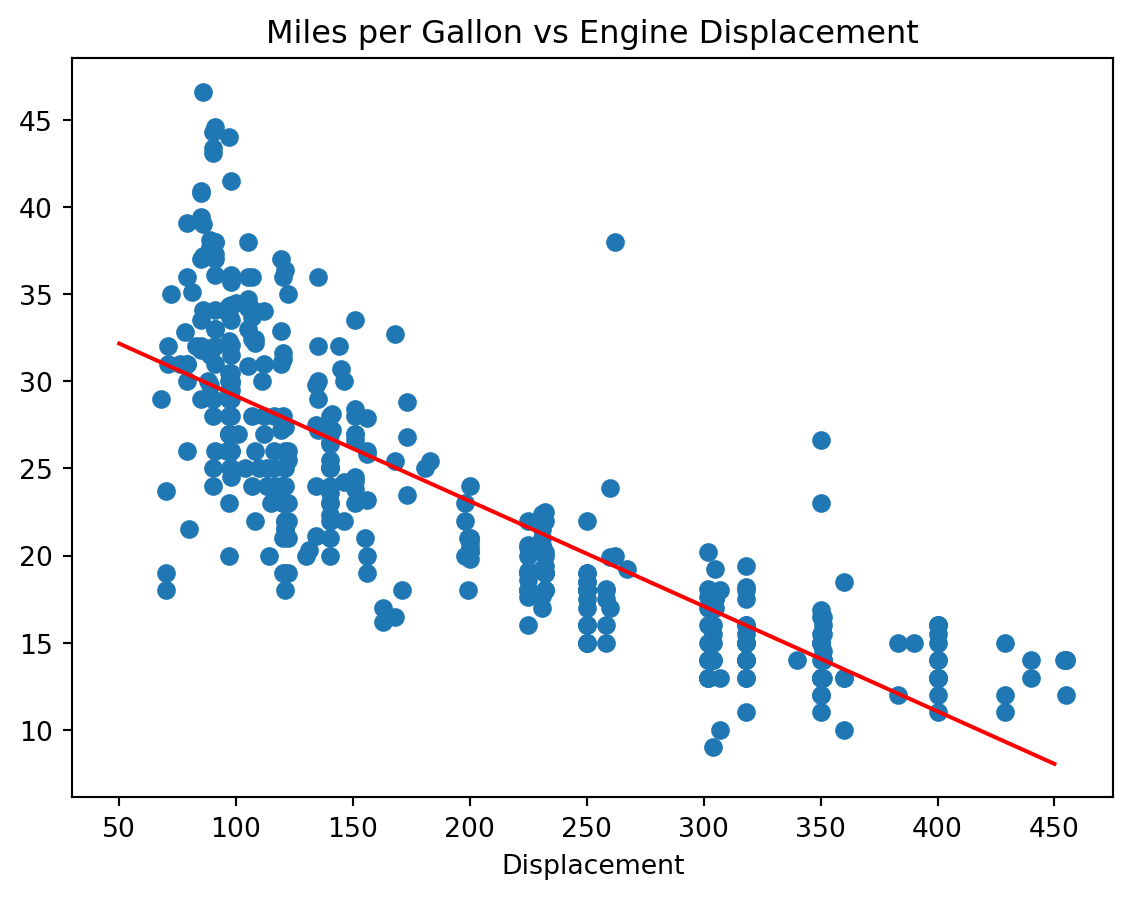
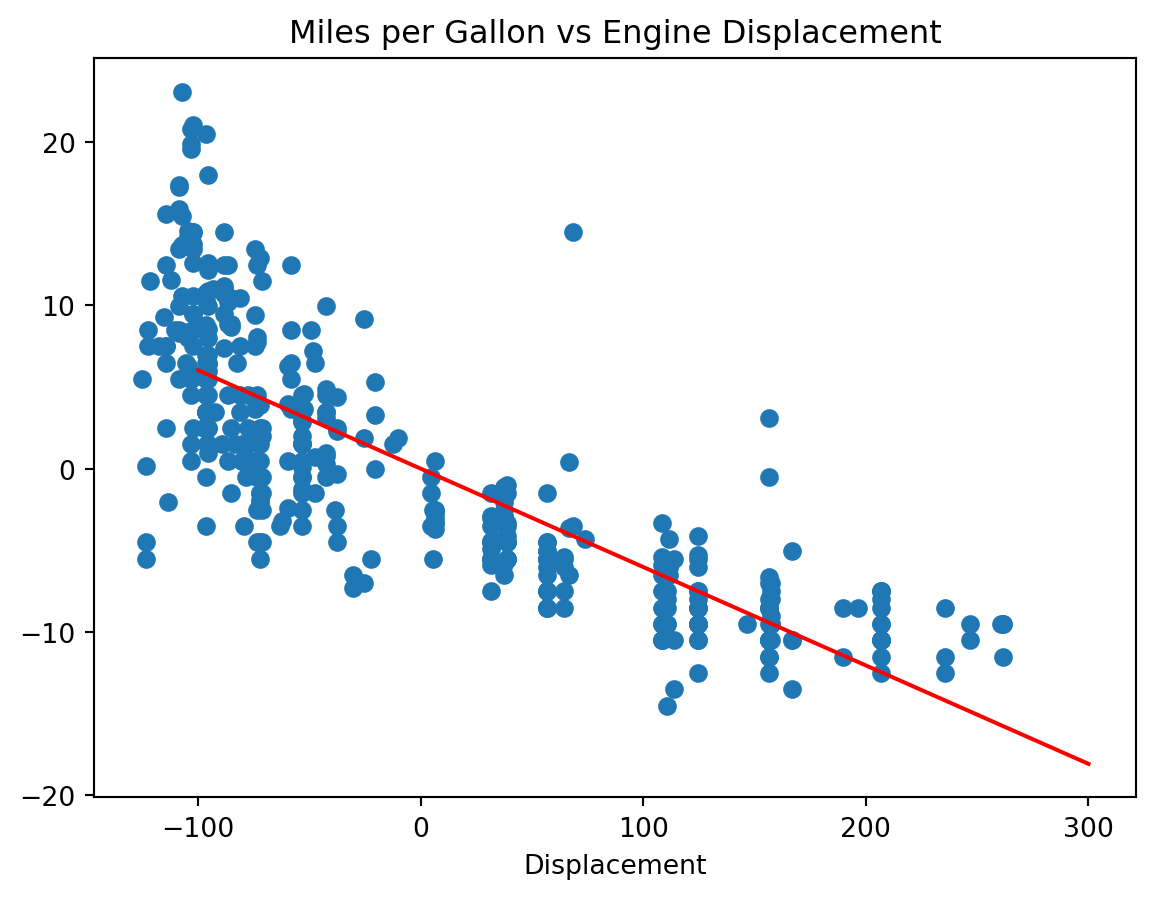
updating published version

diff --git a/docs/chapters/06-LinearAlgebra/linear_algebra.html b/docs/chapters/06-LinearAlgebra/linear_algebra.html
@@ -383,7 +383,7 @@ code span.wa { color: #60a0b0; font-weight: bold; font-style: italic; } /* Warni
 </code></pre>
 </div>
 <div class="cell-output cell-output-display" data-execution_count="6">
-<pre><code>&lt;matplotlib.image.AxesImage at 0x7f1d83333df0&gt;</code></pre>
+<pre><code>&lt;matplotlib.image.AxesImage at 0x7f2154f17fd0&gt;</code></pre>
 </div>
 <div class="cell-output cell-output-display">
 <p><img src="linear_algebra_files/figure-html/cell-7-output-3.png" width="415" height="411"></p>
@@ -469,39 +469,47 @@ b_1v_1+...+b_kv_k=0
 <section id="approximate-linear-dependence" class="level2">
 <h2 class="anchored" data-anchor-id="approximate-linear-dependence">Approximate linear dependence</h2>
 <p>Sometimes two features are “almost” linearly related.</p>
+<p>In an old dataset about car models, with 398 types of cars and 9 features, two features are “miles per gallon” and “engine displacement”. If we look at mpg and displacement relative to their means by subtracting their averages values, we see that</p>
+<p>Here, miles per gallon (relative to its mean value) is roughly linearly dependent on displacement (relative to its mean). <span class="math display">\[
+\mathrm{mpg}-\overline{\mathrm{mpg}} = -.0603(\mathrm{disp}-\overline{\mathrm{disp}})
+\]</span></p>
+<p>So we don’t learn much new from ‘mpg’ that isn’t already in ‘displacement’.</p>
 <div class="cell" data-execution_count="7">
 <div class="sourceCode cell-code" id="cb10"><pre class="sourceCode python code-with-copy"><code class="sourceCode python"><span id="cb10-1"><a href="#cb10-1" aria-hidden="true" tabindex="-1"></a><span class="im">import</span> statsmodels.api <span class="im">as</span> sm</span>
 <span id="cb10-2"><a href="#cb10-2" aria-hidden="true" tabindex="-1"></a>mpg <span class="op">=</span> pd.read_csv(<span class="st">"data/auto-mpg.csv"</span>)</span>
 <span id="cb10-3"><a href="#cb10-3" aria-hidden="true" tabindex="-1"></a>x<span class="op">=</span>mpg[<span class="st">'displacement'</span>].values</span>
-<span id="cb10-4"><a href="#cb10-4" aria-hidden="true" tabindex="-1"></a>y<span class="op">=</span>mpg[<span class="st">'mpg'</span>].values</span>
-<span id="cb10-5"><a href="#cb10-5" aria-hidden="true" tabindex="-1"></a>x1<span class="op">=</span> sm.add_constant(x)</span>
-<span id="cb10-6"><a href="#cb10-6" aria-hidden="true" tabindex="-1"></a>model <span class="op">=</span> sm.OLS(y,x1).fit()</span>
-<span id="cb10-7"><a href="#cb10-7" aria-hidden="true" tabindex="-1"></a>x0 <span class="op">=</span> np.linspace(<span class="dv">50</span>,<span class="dv">450</span>,<span class="dv">10</span>)</span>
-<span id="cb10-8"><a href="#cb10-8" aria-hidden="true" tabindex="-1"></a>x1 <span class="op">=</span> sm.add_constant(x0)</span>
-<span id="cb10-9"><a href="#cb10-9" aria-hidden="true" tabindex="-1"></a>predictions <span class="op">=</span> model.predict(x1)</span>
-<span id="cb10-10"><a href="#cb10-10" aria-hidden="true" tabindex="-1"></a>plt.scatter(x,y)</span>
-<span id="cb10-11"><a href="#cb10-11" aria-hidden="true" tabindex="-1"></a>plt.plot(x0,predictions,color<span class="op">=</span><span class="st">'red'</span>)</span>
-<span id="cb10-12"><a href="#cb10-12" aria-hidden="true" tabindex="-1"></a>plt.title(<span class="st">"Miles per Gallon vs Engine Displacement"</span>)</span>
-<span id="cb10-13"><a href="#cb10-13" aria-hidden="true" tabindex="-1"></a>plt.xlabel(<span class="st">"Displacement"</span>)</span></code><button title="Copy to Clipboard" class="code-copy-button"><i class="bi"></i></button></pre></div>
+<span id="cb10-4"><a href="#cb10-4" aria-hidden="true" tabindex="-1"></a>x<span class="op">=</span>x<span class="op">-</span>np.mean(x)</span>
+<span id="cb10-5"><a href="#cb10-5" aria-hidden="true" tabindex="-1"></a>y<span class="op">=</span>mpg[<span class="st">'mpg'</span>].values</span>
+<span id="cb10-6"><a href="#cb10-6" aria-hidden="true" tabindex="-1"></a>y<span class="op">=</span>y<span class="op">-</span>np.mean(y)</span>
+<span id="cb10-7"><a href="#cb10-7" aria-hidden="true" tabindex="-1"></a>x1<span class="op">=</span> sm.add_constant(x)</span>
+<span id="cb10-8"><a href="#cb10-8" aria-hidden="true" tabindex="-1"></a>model <span class="op">=</span> sm.OLS(y,x1).fit()</span>
+<span id="cb10-9"><a href="#cb10-9" aria-hidden="true" tabindex="-1"></a>x0 <span class="op">=</span> np.linspace(<span class="op">-</span><span class="dv">100</span>,<span class="dv">300</span>,<span class="dv">10</span>)</span>
+<span id="cb10-10"><a href="#cb10-10" aria-hidden="true" tabindex="-1"></a>x1 <span class="op">=</span> sm.add_constant(x0)</span>
+<span id="cb10-11"><a href="#cb10-11" aria-hidden="true" tabindex="-1"></a>predictions <span class="op">=</span> model.predict(x1)</span>
+<span id="cb10-12"><a href="#cb10-12" aria-hidden="true" tabindex="-1"></a>plt.scatter(x,y)</span>
+<span id="cb10-13"><a href="#cb10-13" aria-hidden="true" tabindex="-1"></a>plt.plot(x0,predictions,color<span class="op">=</span><span class="st">'red'</span>)</span>
+<span id="cb10-14"><a href="#cb10-14" aria-hidden="true" tabindex="-1"></a>plt.title(<span class="st">"Miles per Gallon vs Engine Displacement"</span>)</span>
+<span id="cb10-15"><a href="#cb10-15" aria-hidden="true" tabindex="-1"></a>plt.xlabel(<span class="st">"Displacement"</span>)</span></code><button title="Copy to Clipboard" class="code-copy-button"><i class="bi"></i></button></pre></div>
 <div class="cell-output cell-output-display" data-execution_count="7">
 <pre><code>Text(0.5, 0, 'Displacement')</code></pre>
 </div>
 <div class="cell-output cell-output-display">
-<p><img src="linear_algebra_files/figure-html/cell-8-output-2.png" width="566" height="449"></p>
+<p><img src="linear_algebra_files/figure-html/cell-8-output-2.png" width="578" height="449"></p>
 </div>
 </div>
 <p>Linear Regression (studied later) tries to capture this.</p>
 </section>
-<section id="basis" class="level2">
-<h2 class="anchored" data-anchor-id="basis">Basis</h2>
-<ul>
-<li>dependent, or almost dependent features, don’t add new information</li>
-<li>linear combinations of features yield new features (scores)</li>
-<li>different bases give different points of view on the same data (for example rescaling data to standard z-scores)</li>
-</ul>
+<section id="span" class="level2">
+<h2 class="anchored" data-anchor-id="span">Span</h2>
+<p>The span of a collection of vectors is the set of all linear combinations of those vectors.</p>
 </section>
-<section id="subspaces-hyperplanes-and-dimension" class="level2">
-<h2 class="anchored" data-anchor-id="subspaces-hyperplanes-and-dimension">Subspaces, hyperplanes, and dimension</h2>
+<section id="basis-and-dimension" class="level2">
+<h2 class="anchored" data-anchor-id="basis-and-dimension">Basis and dimension</h2>
+<p>A basis is a linearly independent, spanning set. The number of elements in a basis is always the same; it is called the <em>dimension</em> of the vector space.</p>
+<p>The dimension of <span class="math inline">\(\mathbf{R}^{n}\)</span> is <span class="math inline">\(n\)</span> (the standard vectors are independent and span).</p>
+</section>
+<section id="subspaces-and-hyperplanes" class="level2">
+<h2 class="anchored" data-anchor-id="subspaces-and-hyperplanes">Subspaces and hyperplanes</h2>
 </section>
 <section id="linear-maps-and-matrices" class="level2">
 <h2 class="anchored" data-anchor-id="linear-maps-and-matrices">Linear Maps and Matrices</h2>

diff --git a/docs/chapters/02-JupyterBasics/jupyter-walkthrough.html b/docs/chapters/02-JupyterBasics/jupyter-walkthrough.html
@@ -481,7 +481,7 @@ Molly
 <div class="cell" data-execution_count="31">
 <div class="sourceCode cell-code" id="cb57"><pre class="sourceCode python code-with-copy"><code class="sourceCode python"><span id="cb57-1"><a href="#cb57-1" aria-hidden="true" tabindex="-1"></a><span class="bu">print</span>(np.random.randint(<span class="dv">0</span>, <span class="dv">10</span>))</span></code><button title="Copy to Clipboard" class="code-copy-button"><i class="bi"></i></button></pre></div>
 <div class="cell-output cell-output-stdout">
-<pre><code>1</code></pre>
+<pre><code>5</code></pre>
 </div>
 </div>
 <div class="cell" data-execution_count="32">
@@ -496,7 +496,7 @@ Molly
 <div class="cell" data-execution_count="34">
 <div class="sourceCode cell-code" id="cb62"><pre class="sourceCode python code-with-copy"><code class="sourceCode python"><span id="cb62-1"><a href="#cb62-1" aria-hidden="true" tabindex="-1"></a>randint(<span class="dv">1</span>, <span class="dv">10</span>)</span></code><button title="Copy to Clipboard" class="code-copy-button"><i class="bi"></i></button></pre></div>
 <div class="cell-output cell-output-display" data-execution_count="34">
-<pre><code>7</code></pre>
+<pre><code>2</code></pre>
 </div>
 </div>
 </section>

diff --git a/docs/chapters/05-WorkingWithData/pandas_penguins.html b/docs/chapters/05-WorkingWithData/pandas_penguins.html
@@ -1332,7 +1332,7 @@ Categories (2, object): ['FEMALE', 'MALE']</code></pre>
 <div class="sourceCode cell-code" id="cb45"><pre class="sourceCode python code-with-copy"><code class="sourceCode python"><span id="cb45-1"><a href="#cb45-1" aria-hidden="true" tabindex="-1"></a>penguins_by_species <span class="op">=</span> penguins.groupby(<span class="st">'Species'</span>)</span>
 <span id="cb45-2"><a href="#cb45-2" aria-hidden="true" tabindex="-1"></a>penguins_by_species</span></code><button title="Copy to Clipboard" class="code-copy-button"><i class="bi"></i></button></pre></div>
 <div class="cell-output cell-output-display" data-execution_count="28">
-<pre><code>&lt;pandas.core.groupby.generic.DataFrameGroupBy object at 0x7fd084e8c8b0&gt;</code></pre>
+<pre><code>&lt;pandas.core.groupby.generic.DataFrameGroupBy object at 0x7fea1e7e83a0&gt;</code></pre>
 </div>
 </div>
 </section>
